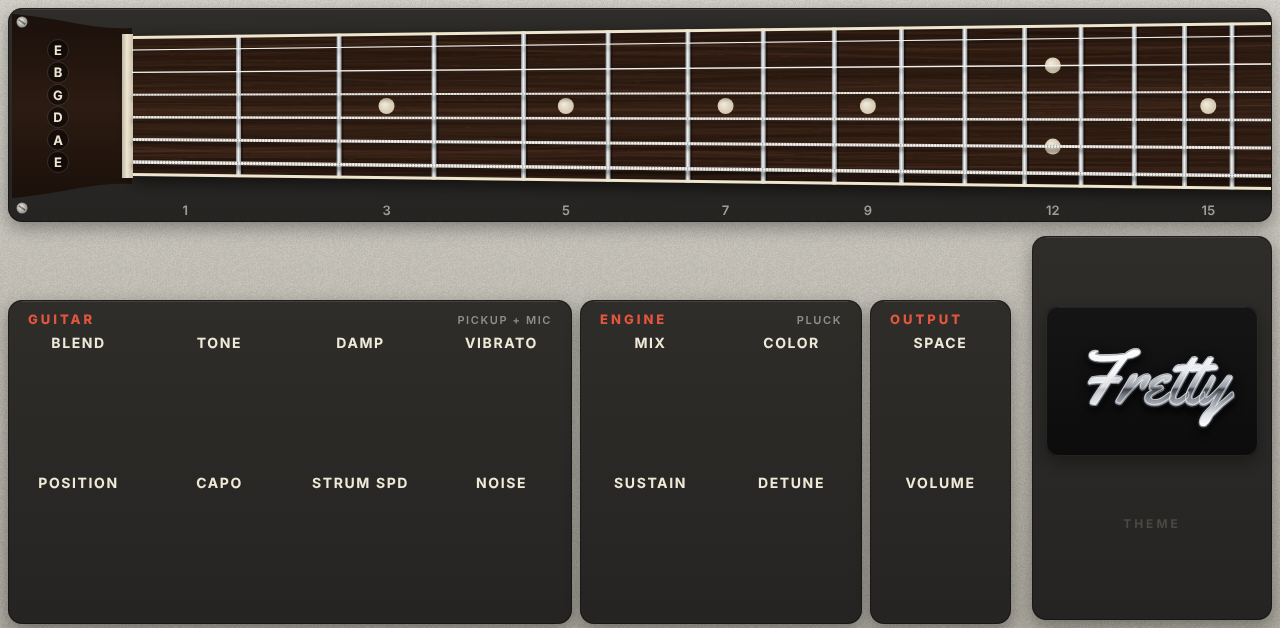
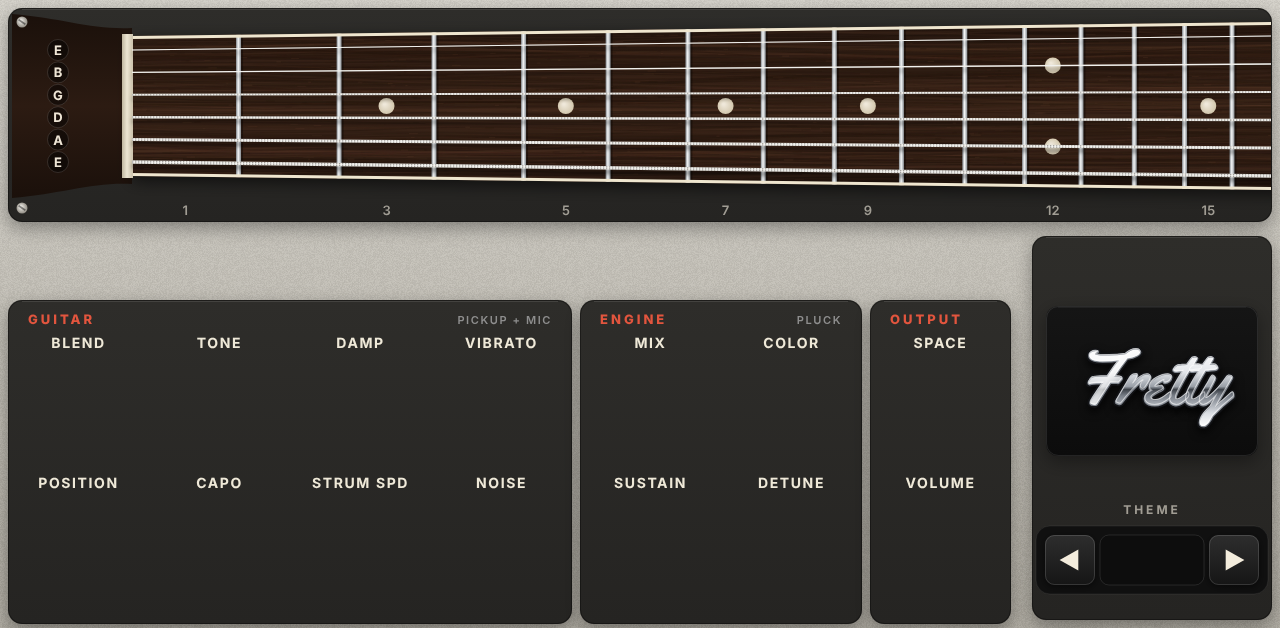
Theme: arrow stepper instead of a drop-down list
Claude-Session: https://claude.ai/code/session_012H9TD95LiwbUERdzwWUwP8

Changed region(s): [[0.8125, 0.7866, 1.0, 0.9379]]

diff --git a/tools/make_skin.py b/tools/make_skin.py
@@ -44,7 +44,7 @@ KNOBS = [  # panel, col, row, key, label
     (2, 0, 0, "space", "SPACE"), (2, 0, 1, "volume", "VOLUME"),
 ]
 STRIP = (1032, 236, 240, 384)                    # right column: wordmark + theme (MPC's Q-Link sidebar may cover it)
-THEME_POP = (1152, 560, 200, 48)                 # cx, cy, w, h
+THEME_POP = (1152, 560, 216, 52)                 # theme stepper: cx, cy, w, h (arrows either side)
 NECK = dict(x0=132, x1=1272, yc=106, hn=70, he=84)
 METER_X0 = 36                                    # string pictures span the headstock badges to the right edge
 
@@ -71,7 +71,7 @@ const T = {
   grey:     { bg1:'#d6d3cb', bg2:'#aeaaa0', noise:0.06, panel1:'#2e2d2a', panel2:'#252422', edge:'rgba(0,0,0,0.35)', hi:'rgba(255,255,255,0.10)',
               title:'#e2553e', dim:'#a19d94', accent:'#d03f2a', accentText:'#fff6f1', wood:['#3b2519','#25160e','#543525'], grain:'dark',
               binding:'#efe6cf', inlay:'#efe8da', head:['#2c1b12','#170e09'], btn1:'#e6e3dc', btn2:'#c4c0b7', btnEdge:'rgba(0,0,0,0.22)', btnText:'#2a2926',
-              screw:['#f1efea','#8b877e'], rule:'#d03f2a', chassisText:'#4a4843' },
+              screw:['#f1efea','#8b877e'], rule:'#d03f2a', chassisText:'#a19d94' },
 };
 const TUNING = [40, 45, 50, 55, 59, 64];
 const NOTE = ['C','C♯','D','E♭','E','F','F♯','G','A♭','A','B♭','B'];
@@ -210,7 +210,8 @@ function background(name) {
   { const dark = { panel1: '#151515', panel2: '#0c0c0c', edge: 'rgba(255,255,255,0.10)', hi: 'rgba(255,255,255,0.06)' };
     panel(dark, sx + 14, sy + 70, sw - 28, 150, 12); }
   chromeWordmark('Fretty', sx + sw / 2, sy + 168, 74);
-  text('THEME', sx + sw / 2, sy + 292, 12, t.chassisText, { weight: 700, ls: 3, align: 'center' });
+  text('THEME', sx + sw / 2, sy + 278, 12, t.chassisText, { weight: 700, ls: 3, align: 'center' });
+  { const [cx, cy, w, h] = THEME_POP_JSON; arrowPlates(w, h, cx - w / 2, cy - h / 2); }
   return cv.toDataURL('image/png');
 }
 
@@ -299,8 +300,27 @@ function fretStrip(i) {
   }
   return cv.toDataURL('image/png');
 }
+function arrowPlates(w, h, ox, oy) {
+  ctx.save(); ctx.translate(ox, oy);
+  rrect(-8, -8, w + 16, h + 16, 14); ctx.fillStyle = '#101010'; ctx.fill();   // same in every theme: the arrows' corners match
+  ctx.strokeStyle = 'rgba(255,255,255,0.07)'; ctx.lineWidth = 1; ctx.stroke();
+  const plate = (x, d) => {
+    ctx.save(); ctx.shadowColor = 'rgba(0,0,0,0.5)'; ctx.shadowBlur = 6; ctx.shadowOffsetY = 2;
+    const g = ctx.createLinearGradient(0, 0, 0, h); g.addColorStop(0, '#2e2e2e'); g.addColorStop(1, '#151515');
+    rrect(x + 1, 1, h - 2, h - 2, 9); ctx.fillStyle = g; ctx.fill(); ctx.restore();
+    rrect(x + 1.5, 1.5, h - 3, h - 3, 9); ctx.strokeStyle = 'rgba(255,255,255,0.14)'; ctx.lineWidth = 1; ctx.stroke();
+    const cx = x + h / 2, cy = h / 2, s = h * 0.2;
+    ctx.beginPath(); ctx.moveTo(cx - d * s * 0.8, cy - s); ctx.lineTo(cx + d * s, cy); ctx.lineTo(cx - d * s * 0.8, cy + s); ctx.closePath();
+    ctx.fillStyle = '#f3ecdc'; ctx.fill();
+  };
+  plate(0, -1); plate(w - h, 1);
+  // the field between the arrows
+  rrect(h + 4, 1, w - 2 * h - 8, h - 2, 9); ctx.fillStyle = '#0d0d0d'; ctx.fill();
+  ctx.strokeStyle = 'rgba(255,255,255,0.10)'; ctx.stroke();
+  ctx.restore();
+}
 const COLW = COLW_JSON, KP_Y = KP_Y_JSON, KP_H = KP_H_JSON, METER_X0 = METER_X0_JSON;
-window.API = { background, toggleImage, knobStrip, vibStrip, fretStrip, meterBox };
+window.API = { arrowPlates, background, toggleImage, knobStrip, vibStrip, fretStrip, meterBox };
 </script></body></html>"""
 
 
@@ -316,7 +336,7 @@ def main():
                 .replace("NECK_JSON", json.dumps(NECK)).replace("PANELS_JSON", json.dumps(PANELS))
                 .replace("STRIP_JSON", json.dumps(STRIP)).replace("COLW_JSON", str(COLW)).replace("KP_Y_JSON", str(KP_Y))
                 .replace("KP_H_JSON", str(KP_H)).replace("METER_X0_JSON", str(METER_X0))
-                .replace("KNOB_LABELS_JSON", json.dumps([list(knob_xy(p_, c, r)) + [lab] for p_, c, r, k, lab in KNOBS])))
+                .replace("THEME_POP_JSON", json.dumps(THEME_POP)).replace("KNOB_LABELS_JSON", json.dumps([list(knob_xy(p_, c, r)) + [lab] for p_, c, r, k, lab in KNOBS])))
     tmp = os.path.join(ART, "_page.html")
     os.makedirs(ART, exist_ok=True)
     open(tmp, "w").write(page_src)
@@ -374,7 +394,7 @@ def write_layout(boxes):
         x, y = knob_xy(p, col, row)
         L.append('knob cx=%d cy=%d r=%d label="%s" key=%s ns=0 vs=21 bw=136 strip=art/knob.png frames=128' % (x, y + Y_OFF, KNOB_R, label, key))
     cx, cy, w, h = THEME_POP
-    L.append('popup cx=%d cy=%d w=%d h=%d label="" key=theme' % (cx, cy + Y_OFF, w, h))
+    L.append('stepper cx=%d cy=%d w=%d h=%d label="" key=theme tsize=20 talign=center' % (cx, cy + Y_OFF, w, h))
     L.append('qlinks "FRETTY" = ' + ",".join(keys))
     open(os.path.join(VST, "layout.conf"), "w").write("\n".join(L) + "\n")
     css = os.path.join(VST, "skin.css")

diff --git a/TESTING.md b/TESTING.md
@@ -1,4 +1,4 @@
-# Device test (v0.2.0)
+# Device test (v0.2.1)
 
 Goal: confirm Fretty builds, loads on the MPC with its fretboard page, and plays with velocity.
 
@@ -25,7 +25,7 @@ The samples are already packed in `engine/fretty.smp` (~20 MB), so nothing is do
 Expected at the end of the build output:
 - `exported: VSTPluginMain`
 - `highest glibc: GLIBC_2.x` (2.31 or lower is ideal; above 2.36 would not load)
-- `dist/Fretty-0.2.0-mpc-armv7.zip`, about 23 MB
+- `dist/Fretty-0.2.1-mpc-armv7.zip`, about 23 MB
 
 The first build with the new page also downloads the toolchain's artwork renderer image (Playwright, ~1-2 GB, once).
 
@@ -52,7 +52,7 @@ the zip into the MPC plugin installer app. The plugin folder is `3dthc - VST - F
 | 11 | CPU | Play fast chords for a minute | no crackles or dropouts |
 | 12 | Long notes | Hold a low chord 5+ s | rings and fades out naturally, no clicks |
 | 13 | Strings | Play a chord, then single notes | each played string glows with its fret lit, and settles as it fades |
-| 14 | Themes | THEME → Sunburst / MPC Grey | the whole page changes look |
+| 14 | Themes | THEME ◀ ▶ arrows (they wrap around) | the whole page changes look |
 | 15 | Screen load | Play busy chords with the page open | the screen stays responsive |
 
 Also note roughly how long check 2 takes: the first insert decodes the samples (a few seconds on the MPC).
